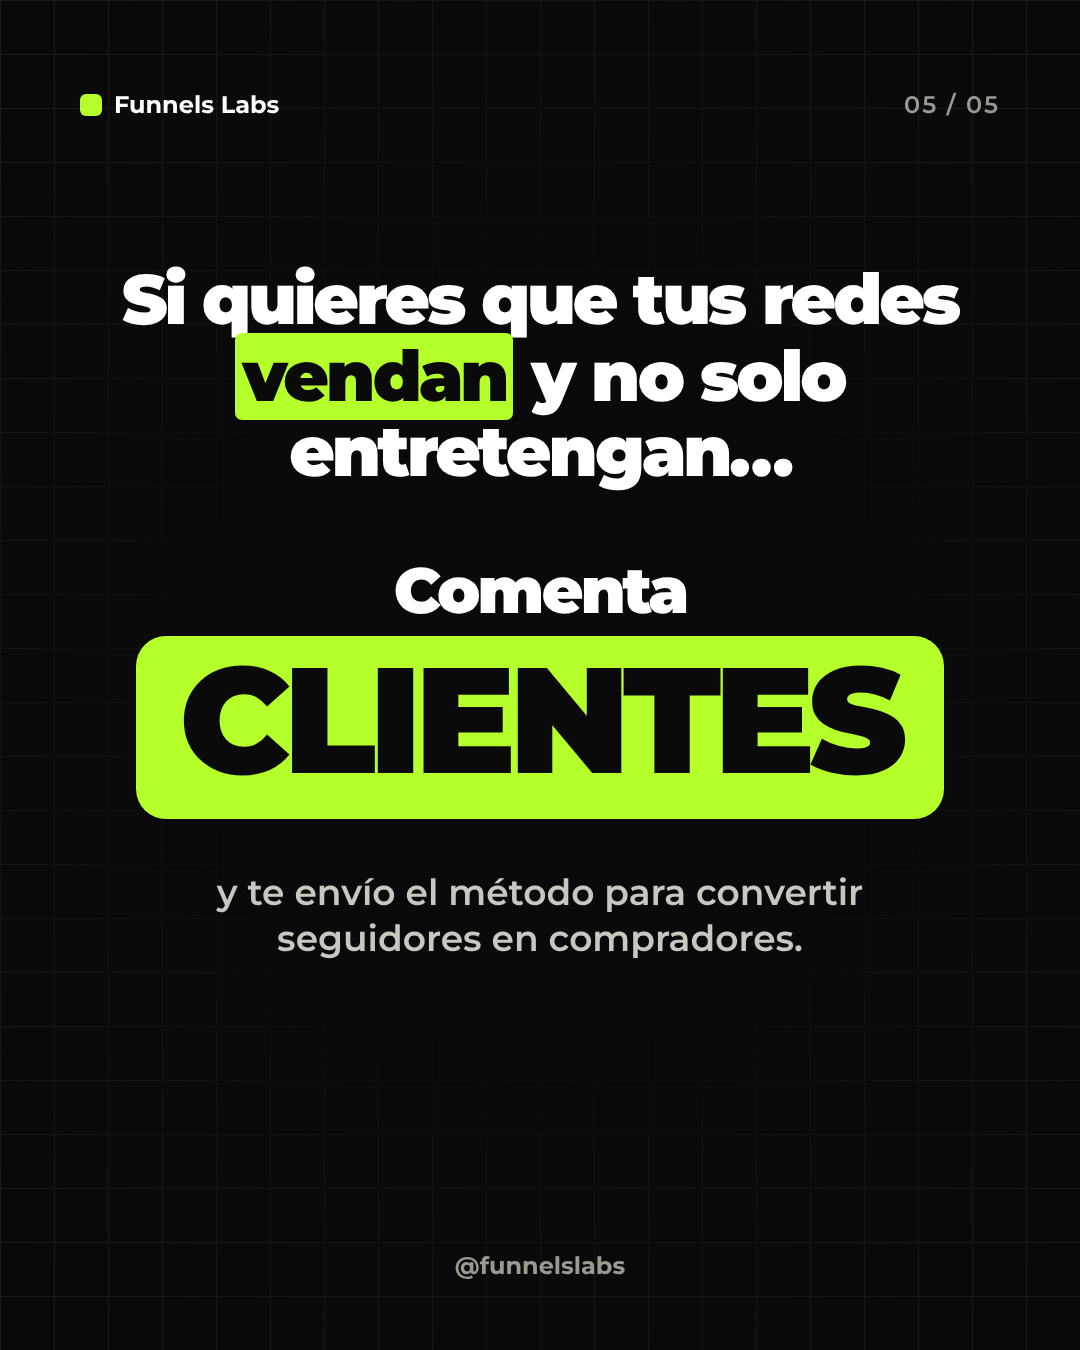
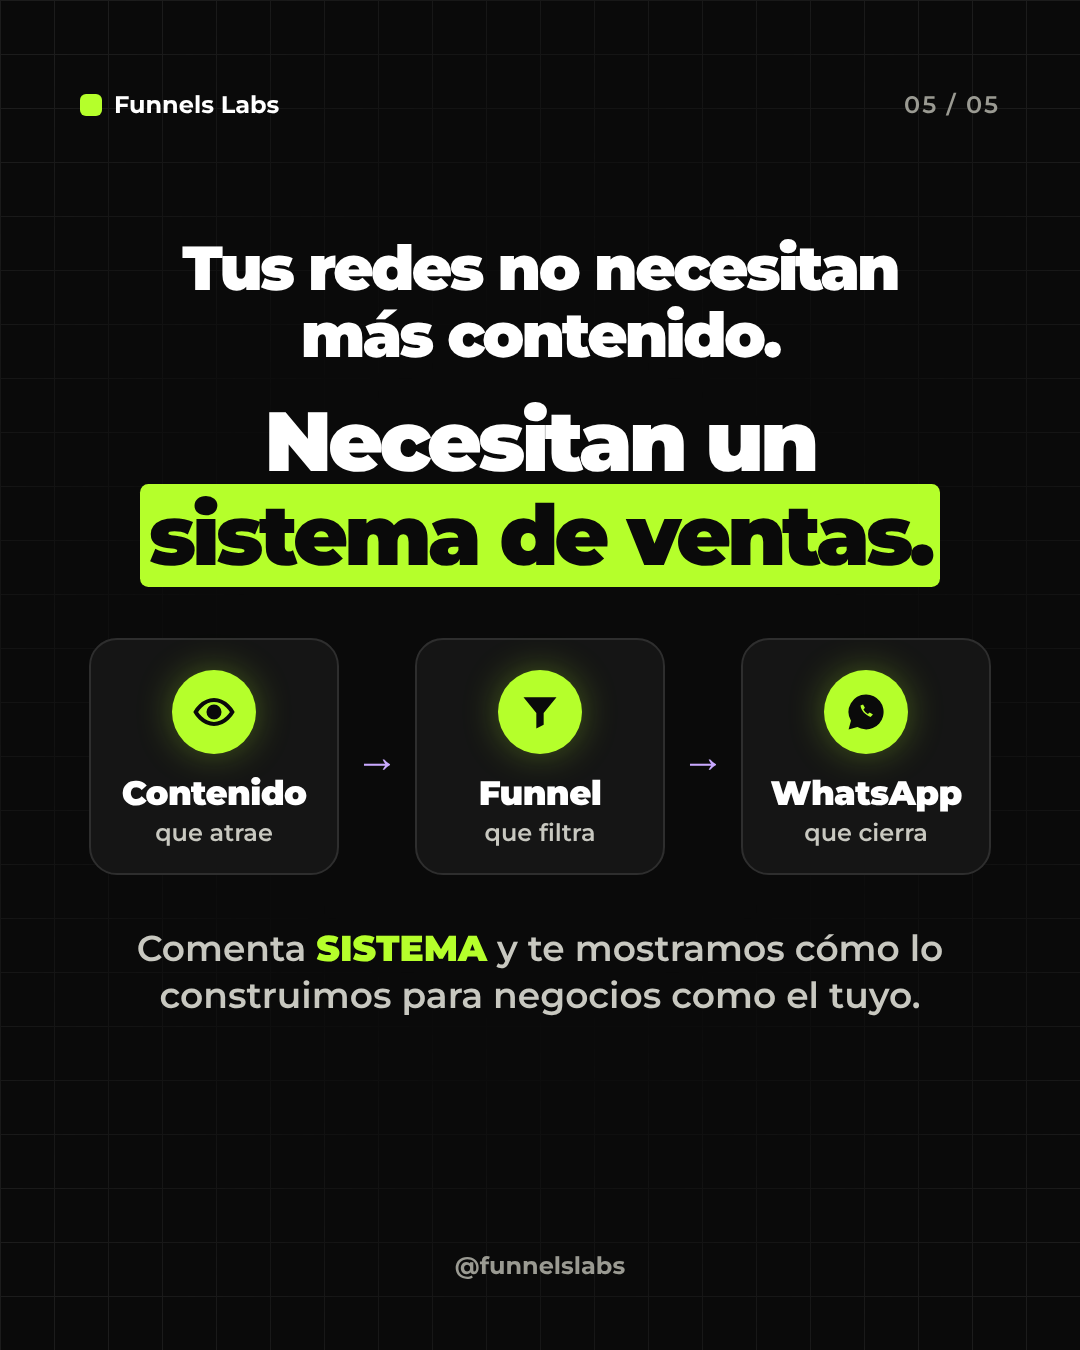
Likes no pagan: CTA final enfocado en sistema de ventas
Claude-Session: https://claude.ai/code/session_018d4LXHkXweDJXxfN5x99dL

Changed region(s): [[0.0917, 0.1556, 0.8861, 0.6222], [0.1222, 0.6533, 0.8861, 0.7467]]

diff --git a/carruseles/likes-no-pagan/carrusel.html b/carruseles/likes-no-pagan/carrusel.html
@@ -44,6 +44,13 @@
   .q .ic svg { width:50px; height:50px; }
   .q span { min-width:0; font-weight:700; font-size:27px; line-height:1.15; letter-spacing:-0.02em; }
   .q b { font-weight:900; color:var(--lime); }
+  .sys { display:flex; align-items:center; justify-content:center; gap:16px; margin-top:56px; }
+  .sys > div { width:250px; background:#151515; border:2px solid #2e2e2e; border-radius:28px; padding:30px 18px 26px; display:flex; flex-direction:column; align-items:center; }
+  .sys .ic { width:84px; height:84px; border-radius:99px; background:var(--lime); display:flex; align-items:center; justify-content:center; margin-bottom:18px; box-shadow:0 0 40px -6px rgba(181,255,43,.45); }
+  .sys .ic svg { width:44px; height:44px; }
+  .sys b { font-weight:900; font-size:34px; letter-spacing:-0.02em; }
+  .sys small { font-weight:600; font-size:24px; color:var(--muted); margin-top:4px; }
+  .plus { font-weight:900; font-size:44px; color:var(--lilac); }
 </style>
 </head>
 <body>
@@ -126,10 +133,16 @@
 <section class="slide" style="text-align:center">
   <div class="top"><div class="brand"><i></i>Funnels Labs</div><div class="count">05 / 05</div></div>
   <div style="margin:auto 0">
-    <div class="x" style="font-size:70px;line-height:1.05">Si quieres que tus redes <span class="hl">vendan</span> y no solo entretengan…</div>
-    <div class="x" style="font-size:64px;margin-top:70px">Comenta</div>
-    <div class="x" style="display:inline-block;font-size:150px;margin-top:14px;background:var(--lime);color:#0a0a0a;border-radius:30px;padding:10px 44px 26px">CLIENTES</div>
-    <p class="lead" style="margin-top:50px">y te envío el método para convertir<br>seguidores en compradores.</p>
+    <div class="x" style="font-size:62px;line-height:1.08">Tus redes no necesitan<br>más contenido.</div>
+    <div class="x" style="font-size:84px;margin-top:26px;line-height:1.1">Necesitan un<br><span class="hl">sistema de ventas.</span></div>
+    <div class="sys">
+      <div><span class="ic"><svg viewBox="0 0 24 24" fill="none" stroke="#0a0a0a" stroke-width="2.2"><path d="M2 12s3.6-6.5 10-6.5S22 12 22 12s-3.6 6.5-10 6.5S2 12 2 12z"/><circle cx="12" cy="12" r="3" fill="#0a0a0a"/></svg></span><b>Contenido</b><small>que atrae</small></div>
+      <span class="plus">→</span>
+      <div><span class="ic"><svg viewBox="0 0 24 24" fill="#0a0a0a"><path d="M3 4h18l-7 8.5V19l-4 2v-8.5z"/></svg></span><b>Funnel</b><small>que filtra</small></div>
+      <span class="plus">→</span>
+      <div><span class="ic"><svg viewBox="0 0 24 24" fill="#0a0a0a"><path d="M12 2.5a9.5 9.5 0 0 0-8.2 14.3L2.5 21.5l4.8-1.3A9.5 9.5 0 1 0 12 2.5z"/><path d="M9 8.5c.3 2.6 2.3 5 5.5 6.2l1.3-1.4-1.8-1-1 .8a5.6 5.6 0 0 1-2.4-2.4l.8-1-1-1.8z" fill="#b5ff2b"/></svg></span><b>WhatsApp</b><small>que cierra</small></div>
+    </div>
+    <p class="lead" style="margin-top:50px">Comenta <b style="color:var(--lime)">SISTEMA</b> y te mostramos cómo lo<br>construimos para negocios como el tuyo.</p>
   </div>
   <div class="foot" style="justify-content:center"><span>@funnelslabs</span></div>
 </section>

diff --git a/carruseles/likes-no-pagan/caption.md b/carruseles/likes-no-pagan/caption.md
@@ -4,6 +4,6 @@ Puedes tener miles de seguidores y aun así no vender, porque tu contenido entre
 
 Desliza y revisa en qué escalón se queda tu audiencia.
 
-👉 Comenta “CLIENTES” y te envío el método para convertir seguidores en compradores.
+👉 Comenta “SISTEMA” y te mostramos cómo lo construimos para negocios como el tuyo.
 
 #emprendedoreslatam #marketingdigital #funnelslabs
